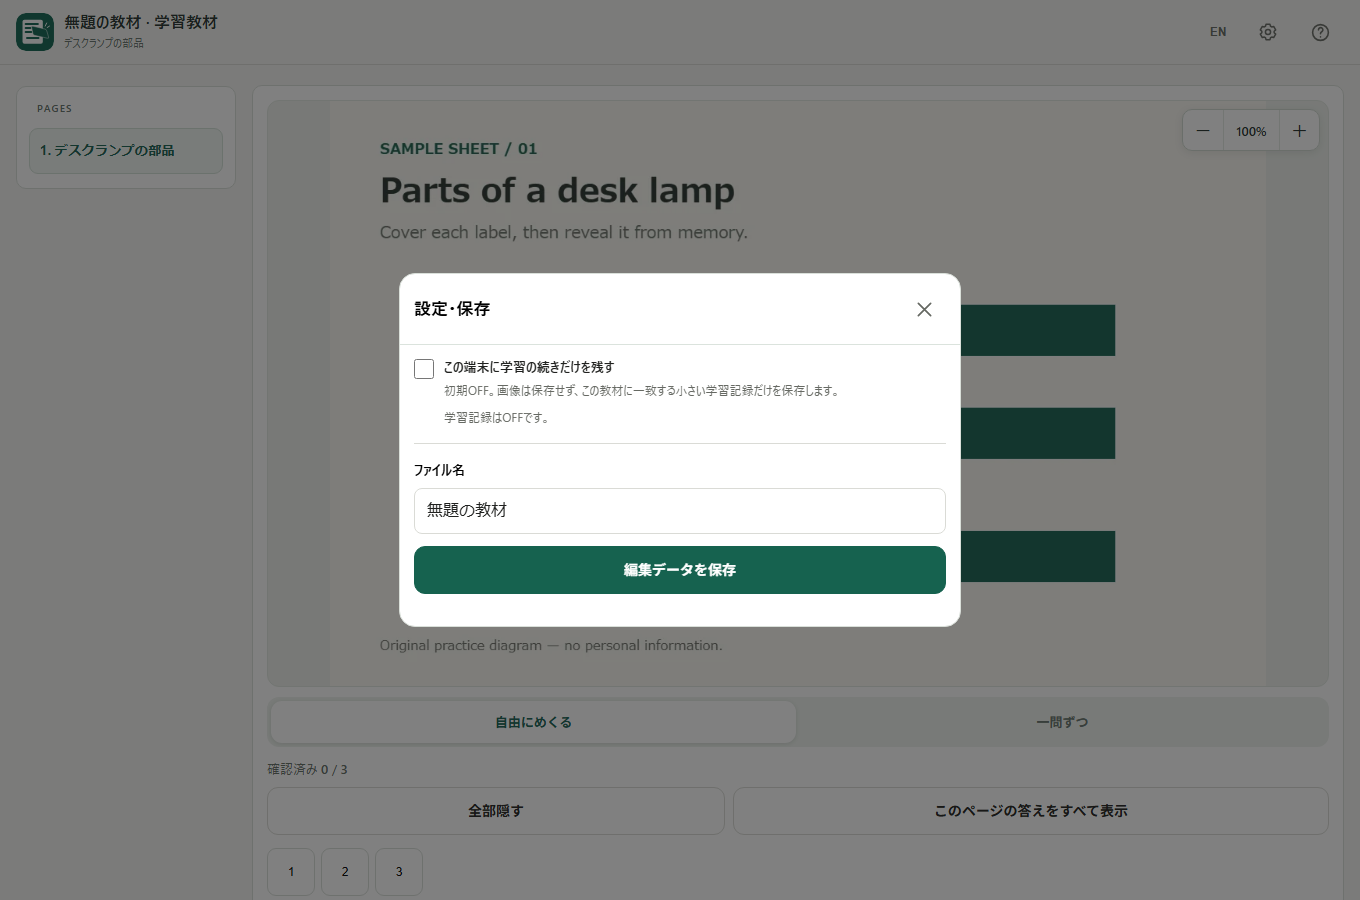
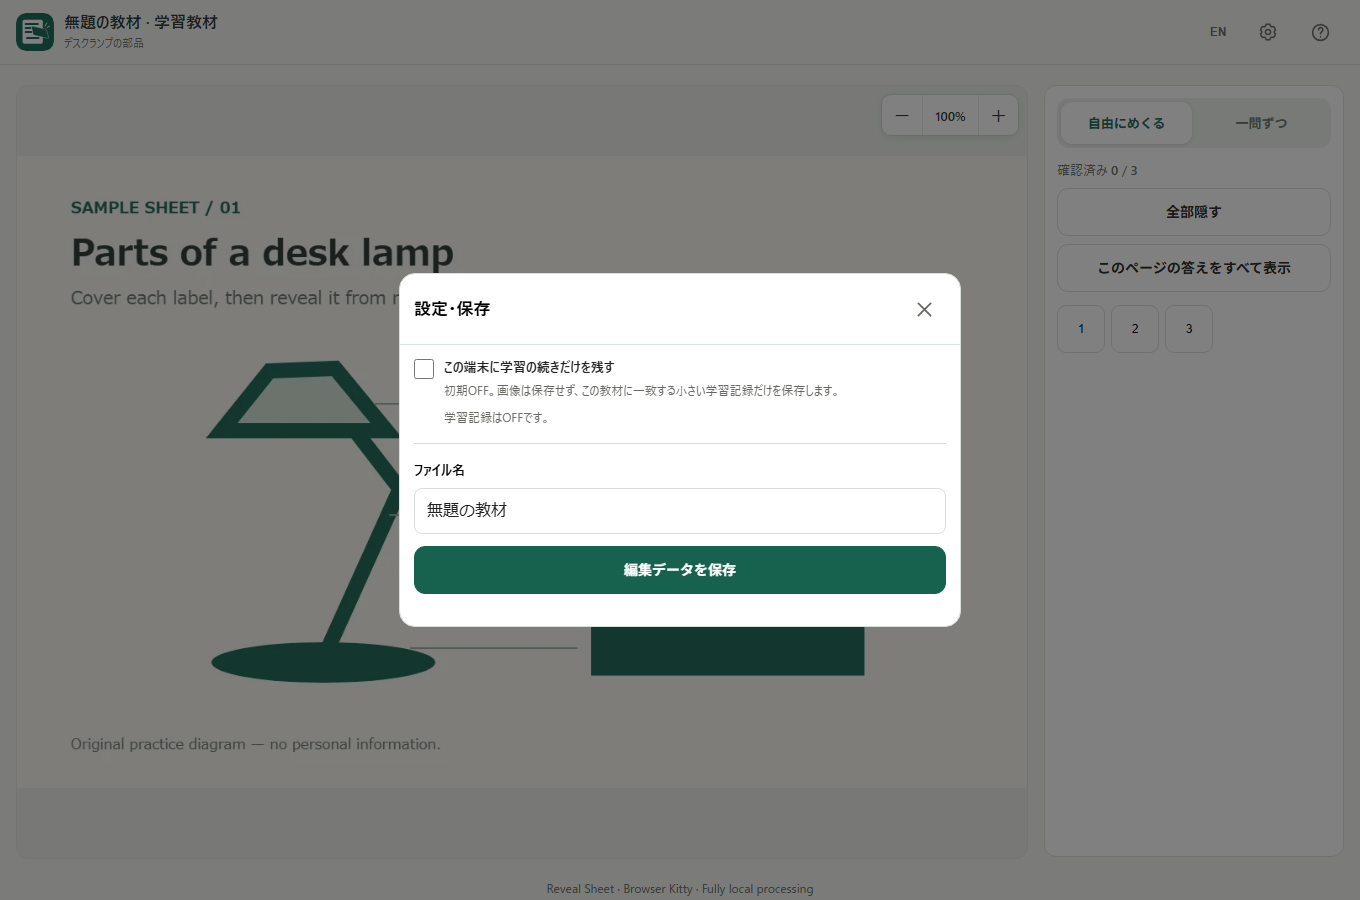
Keep desktop lesson controls beside the worksheet

diff --git a/src/player.template.html b/src/player.template.html
@@ -305,6 +305,25 @@ html,.lesson-body{max-width:100%;overflow-x:hidden}
   .lesson-active .lesson-reading .lesson-answer{order:-1}
   .lesson-active .lesson-reading :is(.lesson-prompt,.lesson-answer){flex:none;margin:0;padding:3px 0}
 }
+
+/* The desktop reader keeps the worksheet visible while the controls scroll. */
+@media (min-width:721px) and (min-height:501px), (min-width:721px) and (pointer:fine) {
+  .lesson-active .lesson-layout {
+    display:grid;grid-template-columns:minmax(0,1fr) clamp(240px,23vw,300px);
+    grid-template-rows:auto minmax(0,1fr);gap:10px 16px;
+    height:clamp(340px,calc(100dvh - 128px),960px);align-items:stretch;
+  }
+  .lesson-active .lesson-panel { display:contents; }
+  .lesson-active .lesson-layout>.lesson-pages { grid-area:1/2;position:static;max-height:22dvh; }
+  .single-lesson-page .lesson-layout>.lesson-pages { display:none; }
+  .lesson-active .lesson-preview { grid-area:1/1/3/2;height:100%;min-height:0; }
+  .lesson-active .lesson-study {
+    grid-area:2/2;min-width:0;min-height:0;overflow:auto;overscroll-behavior:contain;
+    margin:0;padding:12px;border:1px solid var(--lesson-stroke);border-radius:12px;background:white;
+  }
+  .single-lesson-page .lesson-study { grid-row:1/3; }
+  .lesson-study .lesson-guided-secondary { grid-template-columns:repeat(2,minmax(0,1fr)); }
+}
 </style>
 </head>
 <body class="lesson-body">

diff --git a/APP_SPEC.md b/APP_SPEC.md
@@ -668,3 +668,4 @@ Keep the header version visible on narrow smartphones without overlapping the ap
 
 - スマホの学習画面では画像を横幅いっぱいに表示し、問題一覧やまとめてめくる操作を「問題と操作」に収める。自由学習中は同じ覆いを押すたびに開閉する。
 - 一問ずつ学習では、スマホ上で現在の一問に属する覆いをまとめて拡大し、番号を表示する。答えをめくっても位置や手動の倍率を維持する。次の問題へ進むとその問題を表示し、自由学習や編集に戻ると元の表示位置に戻す。書き出した学習用HTMLでも同様に操作できる。
+- PCで学習用HTMLを開くと画像の横に操作欄を表示し、問題が多くても画像を表示したまま操作欄をスクロールできる。
